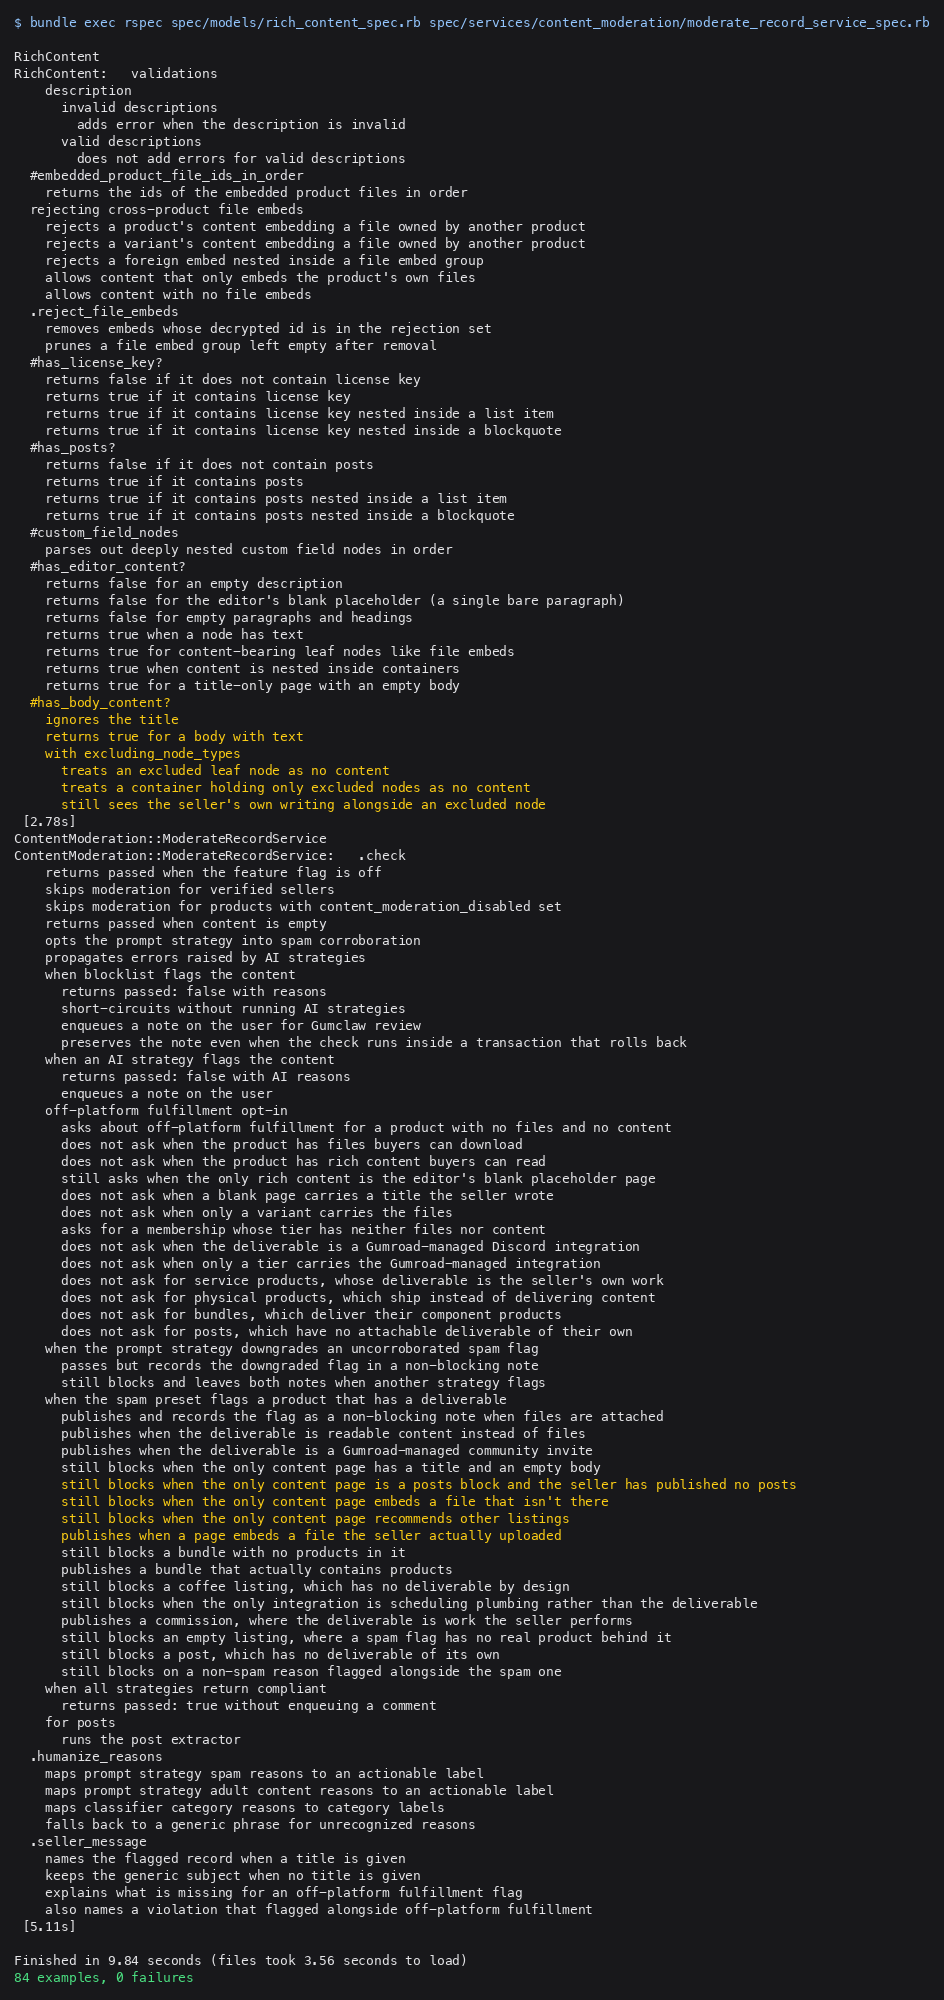
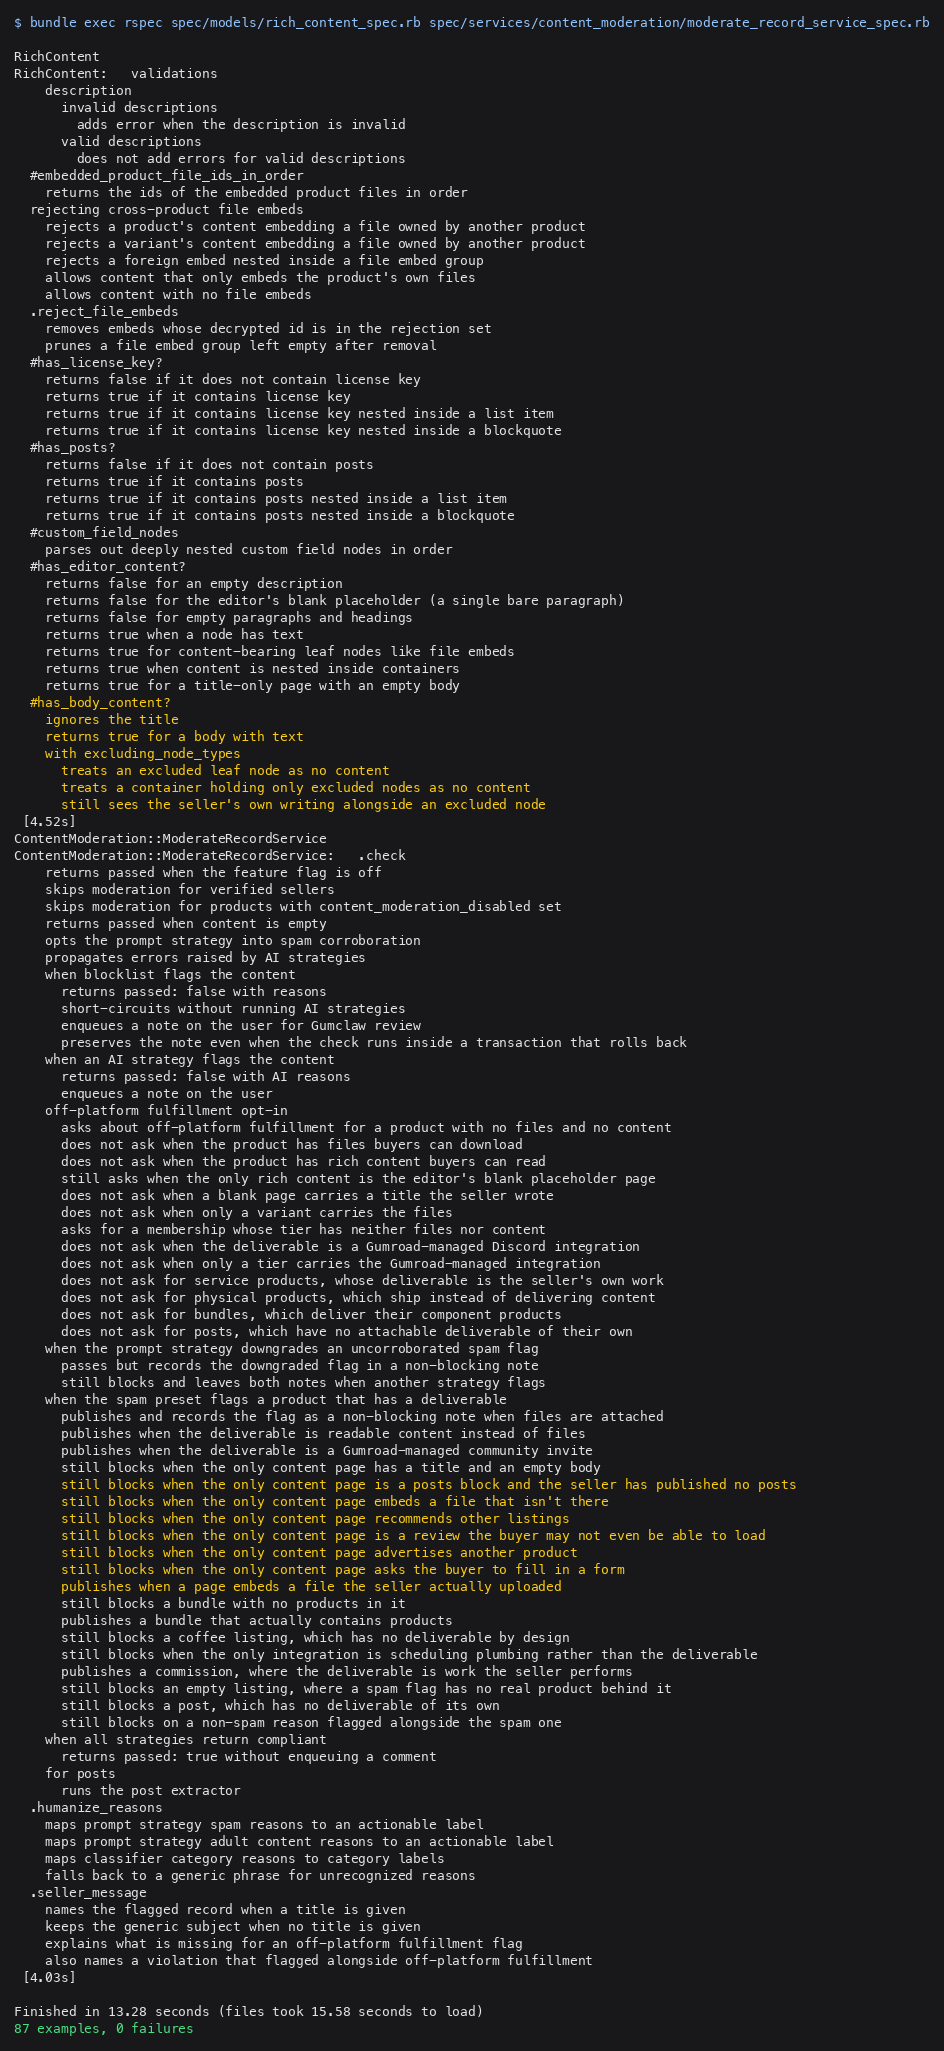
Also exclude review cards, upsells and buyer form fields
Adversarial pre-merge review found the same bypass class in three more node
types. `reviewCard` renders one of the product's reviews and renders nothing
when that review can't be fetched, so it has the identical
renders-content-from-elsewhere shape as `posts` and `fileEmbed`. `upsellCard`
advertises a different product, and the custom-field nodes (`shortAnswer`,
`longAnswer`, `fileUpload`) ask the buyer for something rather than giving them
anything, so neither can stand in for this listing's deliverable however well
they render.

diff --git a/app/models/rich_content.rb b/app/models/rich_content.rb
@@ -17,24 +17,47 @@ class RichContent < ApplicationRecord
   LONG_ANSWER_NODE_TYPE = "longAnswer"
   FILE_UPLOAD_NODE_TYPE = "fileUpload"
   MORE_LIKE_THIS_NODE_TYPE = "moreLikeThis"
+  REVIEW_CARD_NODE_TYPE = "reviewCard"
+  UPSELL_CARD_NODE_TYPE = "upsellCard"
   CUSTOM_FIELD_NODE_TYPES = [SHORT_ANSWER_NODE_TYPE, LONG_ANSWER_NODE_TYPE, FILE_UPLOAD_NODE_TYPE].freeze
   COMMON_CONTAINER_NODE_TYPES = [ORDERED_LIST_NODE_TYPE, BULLET_LIST_NODE_TYPE, LIST_ITEM_NODE_TYPE, BLOCKQUOTE_NODE_TYPE].freeze
   FILE_EMBED_CONTAINER_NODE_TYPES = [FILE_EMBED_GROUP_NODE_TYPE, *COMMON_CONTAINER_NODE_TYPES].freeze
 
-  # Nodes that occupy space in the editor but whose rendered output for the buyer
-  # comes from somewhere else, so their presence alone proves nothing about what
-  # the seller actually wrote or attached:
+  # Nodes that occupy space in the editor but do not, by themselves, mean the
+  # buyer receives anything. Each one is a single click to insert and costs the
+  # seller no work, so their presence proves nothing about what was written or
+  # attached. Two reasons a node lands here:
   #
-  #   - `posts` renders the product's published posts, and renders NOTHING for a
-  #     buyer when the seller has published none,
-  #   - `fileEmbed` / `fileEmbedGroup` render uploaded files, and render nothing
-  #     once the referenced file is deleted or was never finished uploading,
-  #   - `moreLikeThis` renders other listings recommended by Gumroad, which is
-  #     not this listing's deliverable at all.
+  # It renders content fetched from elsewhere, and that elsewhere can be empty —
+  # in which case the buyer opens the page and sees nothing at all:
+  #
+  #   - `posts` renders the product's published posts, and renders nothing when
+  #     the seller has published none,
+  #   - `fileEmbed` / `fileEmbedGroup` render an uploaded file, and render
+  #     nothing once that file is deleted or was never finished uploading,
+  #   - `reviewCard` renders one of the product's reviews, and renders nothing
+  #     when that review can't be fetched.
+  #
+  # Or it points at something other than this listing's deliverable, so it can't
+  # stand in for one no matter how well it renders:
+  #
+  #   - `moreLikeThis` renders other listings Gumroad recommends,
+  #   - `upsellCard` advertises another product the buyer could also buy,
+  #   - the custom-field nodes (`shortAnswer`, `longAnswer`, `fileUpload`) are
+  #     form inputs that ask the BUYER for something rather than giving them
+  #     anything.
   #
   # Callers that need "did the seller put something here themselves" (rather than
   # "does the editor show a block here") pass this to `has_body_content?`.
-  NODE_TYPES_WITHOUT_OWN_CONTENT = [POSTS_NODE_TYPE, FILE_EMBED_NODE_TYPE, FILE_EMBED_GROUP_NODE_TYPE, MORE_LIKE_THIS_NODE_TYPE].freeze
+  NODE_TYPES_WITHOUT_OWN_CONTENT = [
+    POSTS_NODE_TYPE,
+    FILE_EMBED_NODE_TYPE,
+    FILE_EMBED_GROUP_NODE_TYPE,
+    REVIEW_CARD_NODE_TYPE,
+    MORE_LIKE_THIS_NODE_TYPE,
+    UPSELL_CARD_NODE_TYPE,
+    *CUSTOM_FIELD_NODE_TYPES
+  ].freeze
 
   DESCRIPTION_JSON_SCHEMA = {
     type: "array",

diff --git a/app/services/content_moderation/moderate_record_service.rb b/app/services/content_moderation/moderate_record_service.rb
@@ -220,14 +220,16 @@ class ContentModeration::ModerateRecordService
     # title. See `product_has_substantive_deliverable?` for why the title alone
     # doesn't count here even though it counts for the off-platform preset.
     #
-    # Nodes whose rendered output comes from elsewhere are also ignored (see
+    # Blocks that don't themselves give the buyer anything are also ignored (see
     # RichContent::NODE_TYPES_WITHOUT_OWN_CONTENT): a `posts` block on a listing
-    # with no published posts, or a `fileEmbed` pointing at a file that was
-    # deleted or never finished uploading, both render nothing for the buyer, so
-    # dropping one into an otherwise empty page is not a deliverable. A file that
-    # really is attached still downgrades the flag — the `alive_product_files`
-    # checks in `product_has_substantive_deliverable?` cover that case directly,
-    # without needing the embed node to vouch for it.
+    # with no published posts and a `fileEmbed` pointing at a missing file both
+    # render nothing at all, and a recommendation, an upsell for another product
+    # or a form field asks something of the buyer rather than delivering to them.
+    # Each is one click to insert, so dropping one into an otherwise empty page
+    # is not a deliverable. A file that really is attached still downgrades the
+    # flag — the `alive_product_files` checks in
+    # `product_has_substantive_deliverable?` cover that case directly, without
+    # needing the embed node to vouch for it.
     def has_readable_body_content?(product)
       has_own_body_content = ->(rich_content) do
         rich_content.has_body_content?(excluding_node_types: RichContent::NODE_TYPES_WITHOUT_OWN_CONTENT)

diff --git a/spec/services/content_moderation/moderate_record_service_spec.rb b/spec/services/content_moderation/moderate_record_service_spec.rb
@@ -403,6 +403,29 @@ RSpec.describe ContentModeration::ModerateRecordService, :vcr do
         expect(described_class.check(product.reload, :product).passed).to eq(false)
       end
 
+      it "still blocks when the only content page is a review the buyer may not even be able to load" do
+        create(:rich_content, entity: product, title: nil, description: [{ "type" => "reviewCard", "attrs" => { "reviewId" => "missing" } }])
+
+        expect(described_class.check(product.reload, :product).passed).to eq(false)
+      end
+
+      it "still blocks when the only content page advertises another product" do
+        create(:rich_content, entity: product, title: nil, description: [
+                 { "type" => "upsellCard", "attrs" => { "id" => "missing", "productId" => "missing" } }
+               ])
+
+        expect(described_class.check(product.reload, :product).passed).to eq(false)
+      end
+
+      it "still blocks when the only content page asks the buyer to fill in a form" do
+        create(:rich_content, entity: product, title: nil, description: [
+                 { "type" => "shortAnswer", "attrs" => { "label" => "Your name" } },
+                 { "type" => "fileUpload" }
+               ])
+
+        expect(described_class.check(product.reload, :product).passed).to eq(false)
+      end
+
       # The file itself is the deliverable, so an attached file publishes whether
       # or not the seller also embedded it in a page.
       it "publishes when a page embeds a file the seller actually uploaded" do
